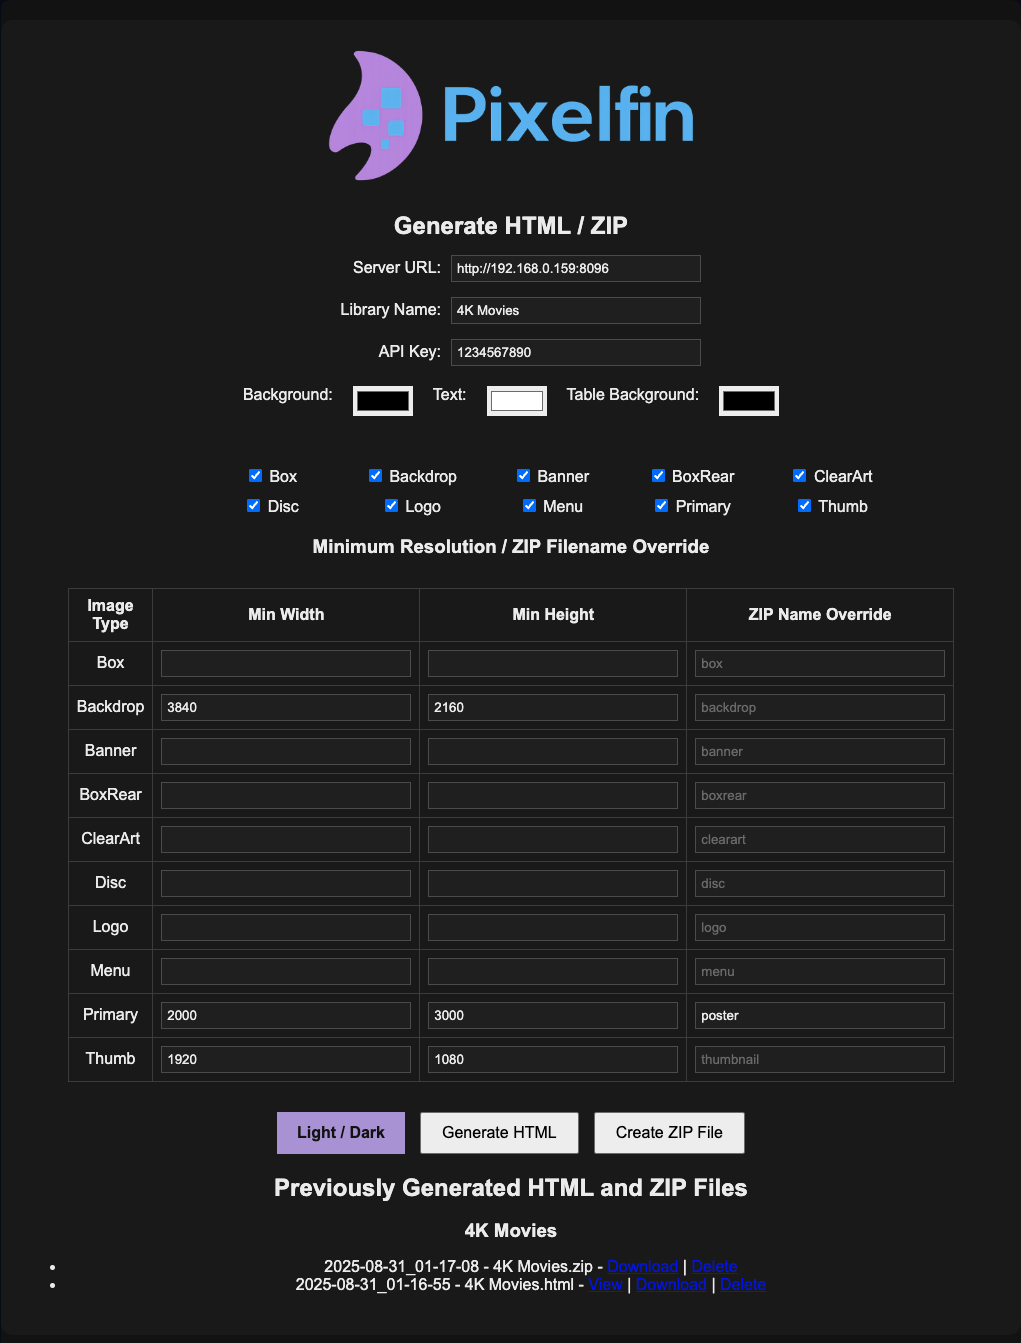
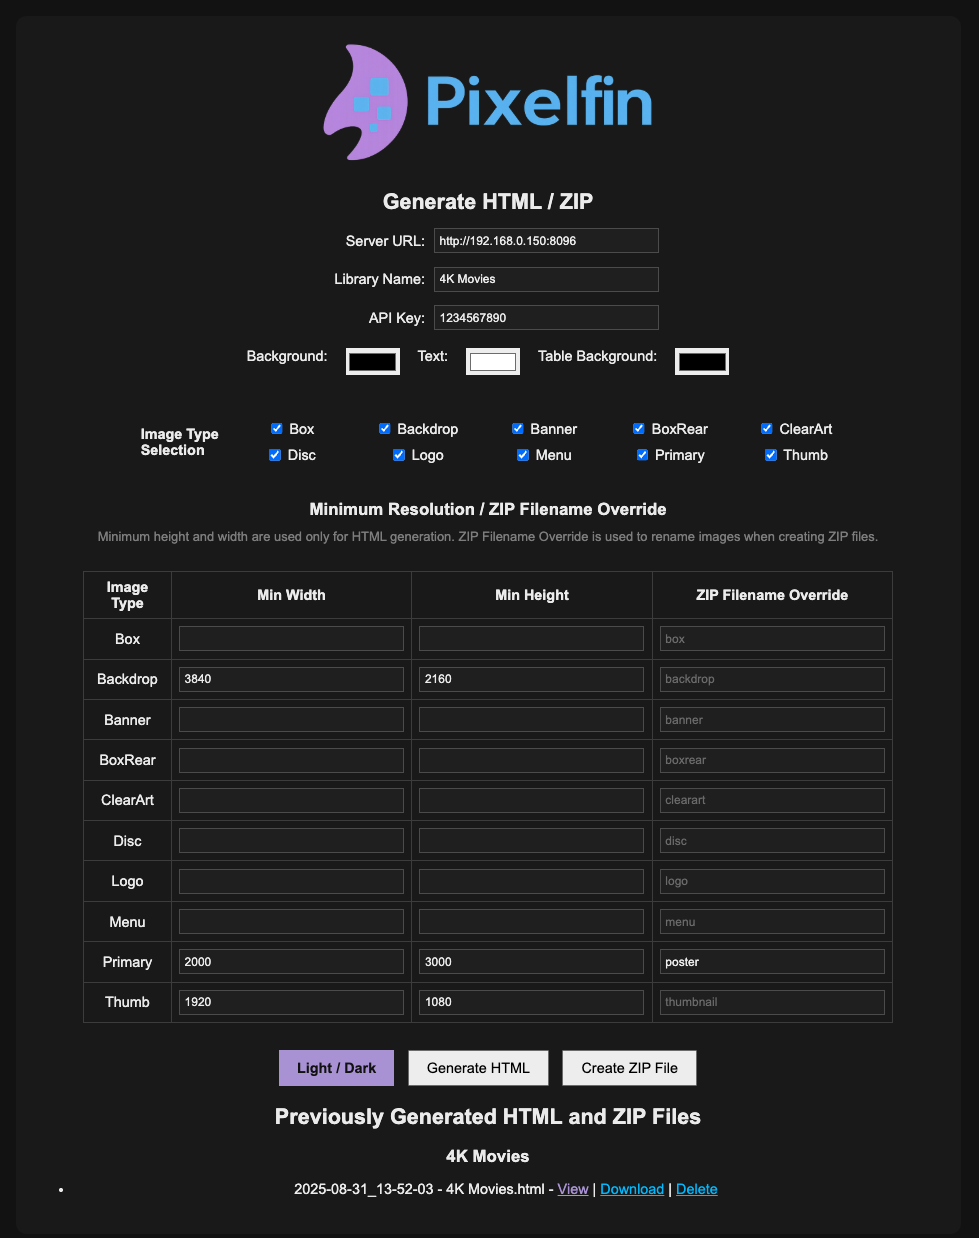
v0.34

diff --git a/templates/form.html b/templates/form.html
@@ -5,6 +5,17 @@
 <title>Pixelfin</title>
 <link rel="icon" type="image/png" href="{{ url_for('serve_assets', filename='Pixelfin_Favicon.png') }}" />
 <style>
+.spaced-header {
+    margin-top: 40px;  /* adds extra space above */
+    margin-bottom: 15px; /* keeps default bottom spacing */
+}
+.small-caption {
+    font-size: 0.9em;
+    color: #888;
+    margin-top: -5px;
+    margin-bottom: 10px;
+    text-align: center;
+}
 body {
     font-family: Arial, sans-serif;
     margin: 0;
@@ -127,6 +138,18 @@ table.res-table th { color:#eee; }
 h3, h2 {
     margin-bottom: 15px;
 }
+/* Dark mode link colors */
+body:not(.light-mode) a:link {
+    color: #00bfff; /* light blue for unvisited links */
+}
+body:not(.light-mode) a:visited {
+    color: #b19cd9; /* light purple for visited links */
+}
+
+/* Optional: keep default hover color consistent */
+body:not(.light-mode) a:hover {
+    color: #87cefa; /* slightly lighter blue on hover */
+}
 </style>
 <script>
 function toggleLightDark() {
@@ -154,6 +177,7 @@ function toggleLightDark() {
 
 <!-- Color pickers + image selectors row -->
 <div class="color-image-row">
+    <!-- Color Pickers -->
     <div class="color-pickers">
         <div class="picker-row">
             <label>Background:</label><input type="color" name="bgcolor" value="{{selected.bgcolor}}">
@@ -161,17 +185,30 @@ function toggleLightDark() {
             <label>Table Background:</label><input type="color" name="tablebgcolor" value="{{selected.tablebgcolor}}">
         </div>
     </div>
-    <div class="checkbox-container">
-    {% for code, label in image_types|dictsort %}
-    <label><input type="checkbox" name="images" value="{{ code }}" {% if code in selected.images %}checked{% endif %}> {{ label }}</label>
-    {% endfor %}
+
+    <!-- Header + Checkboxes -->
+    <div style="display:flex; align-items:center; gap:20px;">
+        <!-- Vertical Header -->
+        <div style="display:flex; flex-direction:column; justify-content:center; text-align:left; font-weight:bold; margin-left:-65px;">
+            <span>Image Type</span>
+            <span>Selection</span>
+        </div>
+
+        <!-- Checkboxes -->
+        <div class="checkbox-container">
+        {% for code, label in image_types|dictsort %}
+        <label><input type="checkbox" name="images" value="{{ code }}" {% if code in selected.images %}checked{% endif %}> {{ label }}</label>
+        {% endfor %}
+        </div>
     </div>
 </div>
-
 <!-- Minimum Resolution / ZIP Filename Override -->
-<h3>Minimum Resolution / ZIP Filename Override</h3>
+<h3 class="spaced-header">Minimum Resolution / ZIP Filename Override</h3>
+<p class="small-caption">
+  Minimum height and width are used only for HTML generation. ZIP Filename Override is used to rename images when creating ZIP files.
+</p>
 <table class="res-table">
-<tr><th>Image Type</th><th>Min Width</th><th>Min Height</th><th>ZIP Name Override</th></tr>
+<tr><th>Image Type</th><th>Min Width</th><th>Min Height</th><th>ZIP Filename Override</th></tr>
 {% for code, label in image_types|dictsort %}
 <tr>
 <td>{{ label }}</td>

diff --git a/CHANGELOG.md b/CHANGELOG.md
@@ -5,6 +5,20 @@ This project follows [Semantic Versioning](https://semver.org/).
 
 ---
 
+## v0.34 — 2025-08-31
+
+### Added
+- Caption for the **Minimum Resolution / ZIP Filename Override** table explaining the purpose of min width/height and ZIP filename override.  
+- Heading next to the **image selection checkboxes**. 
+- Preservation of **color picker history** for background, text, and table colors across sessions.  
+
+### Changed
+- Link colors in **dark mode**:  
+  - Unvisited links are now **light blue**.  
+  - Visited links are now **light purple**.
+
+---
+
 ## v0.33 — 2025-08-31
 ### Changed
 - **Color selections are now preserved**:
